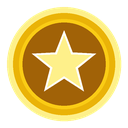
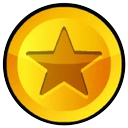
feat(discord): add arshadow_buff emoji, import authentic GD sprites, remove verified and cbf

diff --git a/scripts/process_user_emojis.py b/scripts/process_user_emojis.py
@@ -1,0 +1,168 @@
+import os
+from PIL import Image, ImageFilter
+import numpy as np
+from scipy.ndimage import label, binary_fill_holes
+
+U_DIR = r"C:/Users/cat97/.gemini/antigravity/brain/02297bf2-b1c1-4fa2-927a-5961238d30fc/.user_uploaded"
+ART_DIR = r"C:/Users/cat97/.gemini/antigravity/brain/02297bf2-b1c1-4fa2-927a-5961238d30fc"
+OUT_DIR = "public/emojis"
+os.makedirs(OUT_DIR, exist_ok=True)
+
+# ==============================================================================
+# 1. ARSHADOW BUFF (The Black Oval)
+# ==============================================================================
+def process_arshadow_buff():
+    img = Image.open(os.path.join(U_DIR, "media_1794093285340_6796ee55.webp")).convert("RGB")
+    arr = np.array(img)
+    # The oval is in crop region [160:420, 260:640]
+    crop = arr[160:420, 260:640]
+    lum = np.max(crop, axis=2)
+
+    # Detect the black oval (interior is 0, 0, 0)
+    mask = (lum < 20)
+    lbl, n = label(mask)
+    c_label = lbl[126, 192]
+    oval_mask = binary_fill_holes(lbl == c_label)
+
+    # Tight crop
+    y_idx, x_idx = np.where(oval_mask)
+    y1, y2 = y_idx.min(), y_idx.max()
+    x1, x2 = x_idx.min(), x_idx.max()
+    pad = 8
+    y_start, y_end = max(0, y1 - pad), min(crop.shape[0], y2 + pad + 1)
+    x_start, x_end = max(0, x1 - pad), min(crop.shape[1], x2 + pad + 1)
+
+    m_crop = oval_mask[y_start:y_end, x_start:x_end].astype(np.float32)
+    mask_img = Image.fromarray((m_crop * 255).astype(np.uint8), mode="L")
+    mask_smooth = mask_img.filter(ImageFilter.GaussianBlur(radius=1.0))
+
+    # Opaque black oval with smooth alpha
+    oval_rgba = Image.new("RGBA", mask_img.size, (0, 0, 0, 0))
+    oval_rgba.paste(Image.new("RGBA", mask_img.size, (0, 0, 0, 255)), (0, 0), mask_smooth)
+
+    # Scale to 128x128
+    w, h = oval_rgba.size
+    scale = 118.0 / max(w, h)
+    nw, nh = int(w * scale), int(h * scale)
+    resized = oval_rgba.resize((nw, nh), Image.Resampling.LANCZOS)
+
+    final = Image.new("RGBA", (128, 128), (0, 0, 0, 0))
+    final.paste(resized, ((128 - nw) // 2, (128 - nh) // 2), resized)
+
+    final.save(os.path.join(OUT_DIR, "arshadow_buff.png"), "PNG", optimize=True)
+    final.save(os.path.join(ART_DIR, "arshadow_buff.png"), "PNG", optimize=True)
+    print("Saved arshadow_buff.png")
+
+# ==============================================================================
+# 2. OFFICIAL EXTREME DEMON FACE
+# ==============================================================================
+def process_extreme_demon():
+    img = Image.open(os.path.join(U_DIR, "media_1794092957530_21b8813c.webp")).convert("RGB")
+    arr = np.array(img).astype(np.float32)
+
+    diff_bg = np.max(np.abs(arr - 247.0), axis=2)
+    bg_seed = (diff_bg < 15.0)
+    lbl, n = label(bg_seed)
+    border_mask = np.zeros_like(bg_seed)
+    border_mask[0, :] = True
+    border_mask[-1, :] = True
+    border_mask[:, 0] = True
+    border_mask[:, -1] = True
+    border_labels = np.unique(lbl[border_mask])
+    border_labels = border_labels[border_labels > 0]
+    is_bg = np.isin(lbl, border_labels)
+
+    alpha = np.where(is_bg, 0.0, 1.0)
+    rgba = np.zeros((arr.shape[0], arr.shape[1], 4), dtype=np.uint8)
+    rgba[:, :, :3] = np.array(img)
+    rgba[:, :, 3] = (alpha * 255.0).astype(np.uint8)
+
+    y_idx, x_idx = np.where(~is_bg)
+    crop_rgba = Image.fromarray(rgba).crop((x_idx.min(), y_idx.min(), x_idx.max() + 1, y_idx.max() + 1))
+
+    w, h = crop_rgba.size
+    scale = 124.0 / max(w, h)
+    nw, nh = int(w * scale), int(h * scale)
+    resized = crop_rgba.resize((nw, nh), Image.Resampling.LANCZOS)
+
+    final = Image.new("RGBA", (128, 128), (0, 0, 0, 0))
+    final.paste(resized, ((128 - nw) // 2, (128 - nh) // 2), resized)
+
+    final.save(os.path.join(OUT_DIR, "ndl_extreme.png"), "PNG", optimize=True)
+    final.save(os.path.join(ART_DIR, "ndl_extreme.png"), "PNG", optimize=True)
+    print("Saved ndl_extreme.png")
+
+# ==============================================================================
+# 3. OFFICIAL NORMAL DIFFICULTY FACE ("FIRE IN THE HOLE")
+# ==============================================================================
+def process_normal_face():
+    img = Image.open(os.path.join(U_DIR, "media_1794092971899_7f02ffdc.webp")).convert("RGB")
+    arr = np.array(img).astype(np.float32)
+
+    diff_bg = np.max(np.abs(arr - 247.0), axis=2)
+    bg_seed = (diff_bg < 15.0)
+    lbl, n = label(bg_seed)
+    border_mask = np.zeros_like(bg_seed)
+    border_mask[0, :] = True
+    border_mask[-1, :] = True
+    border_mask[:, 0] = True
+    border_mask[:, -1] = True
+    border_labels = np.unique(lbl[border_mask])
+    border_labels = border_labels[border_labels > 0]
+    is_bg = np.isin(lbl, border_labels)
+
+    alpha = np.where(is_bg, 0.0, 1.0)
+    rgba = np.zeros((arr.shape[0], arr.shape[1], 4), dtype=np.uint8)
+    rgba[:, :, :3] = np.array(img)
+    rgba[:, :, 3] = (alpha * 255.0).astype(np.uint8)
+
+    y_idx, x_idx = np.where(~is_bg)
+    crop_rgba = Image.fromarray(rgba).crop((x_idx.min(), y_idx.min(), x_idx.max() + 1, y_idx.max() + 1))
+
+    w, h = crop_rgba.size
+    scale = 124.0 / max(w, h)
+    nw, nh = int(w * scale), int(h * scale)
+    resized = crop_rgba.resize((nw, nh), Image.Resampling.LANCZOS)
+
+    final = Image.new("RGBA", (128, 128), (0, 0, 0, 0))
+    final.paste(resized, ((128 - nw) // 2, (128 - nh) // 2), resized)
+
+    final.save(os.path.join(OUT_DIR, "fire_in_the_hole.png"), "PNG", optimize=True)
+    final.save(os.path.join(ART_DIR, "fire_in_the_hole.png"), "PNG", optimize=True)
+    print("Saved fire_in_the_hole.png")
+
+# ==============================================================================
+# 4. OFFICIAL SECRET COIN
+# ==============================================================================
+def process_secret_coin():
+    img = Image.open(os.path.join(U_DIR, "media_1794093008485_68a60cc7.webp")).convert("RGB")
+    arr = np.array(img).astype(np.float32)
+    cx, cy = 430.0, 281.0
+    yy, xx = np.mgrid[0:arr.shape[0], 0:arr.shape[1]].astype(np.float32)
+    dist = np.sqrt((xx - cx) ** 2 + (yy - cy) ** 2)
+
+    def smoothstep(e0, e1, x):
+        v = np.clip((x - e0) / (e1 - e0), 0.0, 1.0)
+        return v * v * (3 - 2 * v)
+
+    alpha = 1.0 - smoothstep(241.5, 243.5, dist)
+    rgba = np.zeros((arr.shape[0], arr.shape[1], 4), dtype=np.uint8)
+    rgba[:, :, :3] = np.array(img)
+    rgba[:, :, 3] = (alpha * 255.0).astype(np.uint8)
+
+    r_box = 245
+    coin_crop = Image.fromarray(rgba).crop((int(cx - r_box), int(cy - r_box), int(cx + r_box), int(cy + r_box)))
+    coin_128 = coin_crop.resize((124, 124), Image.Resampling.LANCZOS)
+
+    final = Image.new("RGBA", (128, 128), (0, 0, 0, 0))
+    final.paste(coin_128, (2, 2), coin_128)
+
+    final.save(os.path.join(OUT_DIR, "ndl_coin.png"), "PNG", optimize=True)
+    final.save(os.path.join(ART_DIR, "ndl_coin.png"), "PNG", optimize=True)
+    print("Saved ndl_coin.png")
+
+if __name__ == "__main__":
+    process_arshadow_buff()
+    process_extreme_demon()
+    process_normal_face()
+    process_secret_coin()
